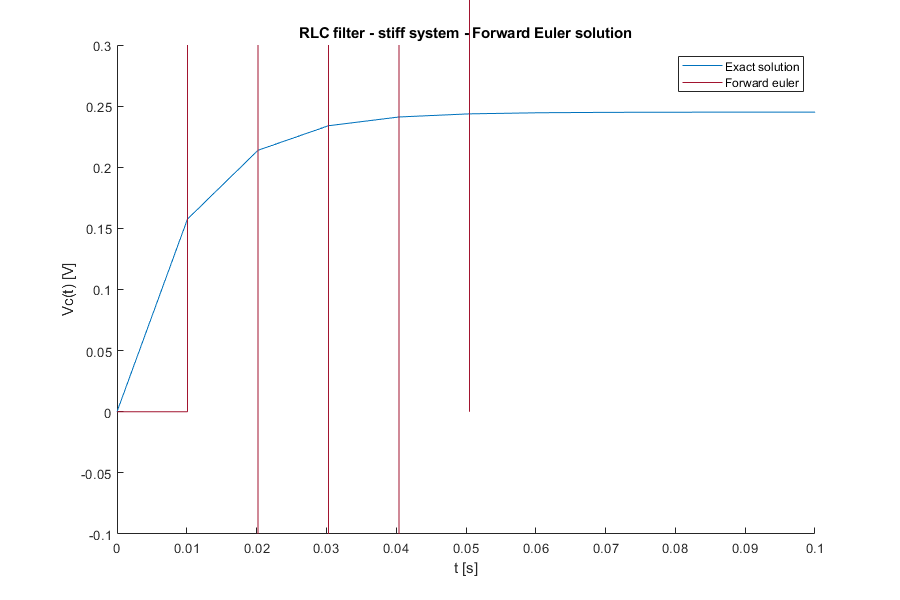
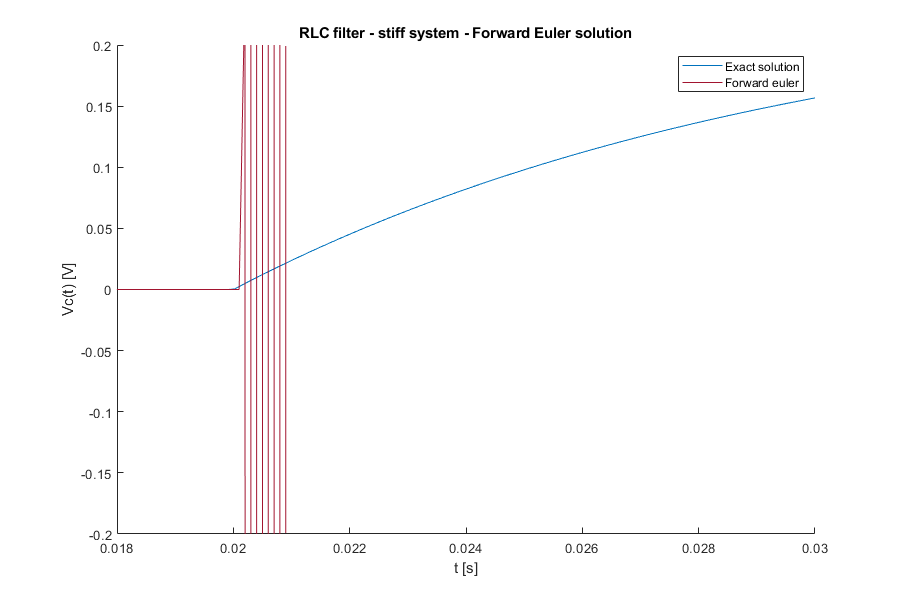
Corette immagini grafici, aggiunto grafico vin

diff --git a/presentazioneDI/RLC.m b/presentazioneDI/RLC.m
@@ -52,7 +52,6 @@ y_fe(:,1) = [0;0];
 for ii = 1:numel(t)-1
     y_fe(:,ii+1) = y_fe(:,ii) + h .* f(t(ii),y_fe(:,ii));
 end
-
 %% Eulero indietro
 
 y_be(:,1) = [0;0];
@@ -76,13 +75,13 @@ end
 
 y0 = [0;0];
 y_BDF3 = zeros(numel(y0),numel(t));
-
+tic
 for ii = 3:numel(t)-1
     BDF3 = @(x) (18/11).*y_BDF3 (:, ii) - (9/11).*y_BDF3 (:,ii-1) + ...
     (2/11).*y_BDF3 (:,ii-2)  + (6/11 ).* h.*f(t(ii+1),x) - x;
     y_BDF3 (:,ii+1) = fsolve(BDF3, y_BDF3 (:,ii),optimset('Display','off'));
 end
-
+toc
 %% ode15s
 
 [t_ode15s,y_ode15s] = ode15s(f,[tstart tend],[0; 0]);
@@ -107,9 +106,9 @@ xlabel('t [s]');
 %% BDF Plot
 figure('Position', [100 100 900 600]);
 hold on
-plot(t, Vi(t), 'color', '#7E2F8E');
+plot(t, Vi(t), 'color', 'black', 'LineWidth', 0.5);
 plot(t_ex,y_ex, 'marker', 'x', 'lineStyle', 'none', 'color', '#0072BD','MarkerIndices',1:25:length(t_ex));
-plot(t,y_BDF3(1,:), 'color', '#4DBEEE');
+plot(t,y_BDF3(1,:), 'color', '#A2142F');
 ylim([-0.1 0.3])
 xlim([0, 0.1]);
 title("RLC filter - stiff system");
@@ -133,14 +132,27 @@ xlabel('t [s]');
 %% FE Plot
 figure('Position', [100 100 900 600]);
 hold on
-%plot(t_ex,y_ex, 'marker', 'x', 'lineStyle', 'none', 'color', '#0072BD',
-%'MarkerIndices',1:25:length(t_ex)); %blue for non stiff
-plot(t_ex,y_ex, 'color', '#0072BD'); %blue
+plot(t_ex,y_ex, 'marker', 'x', 'lineStyle', 'none', 'color', '#0072BD', 'MarkerIndices',1:25:length(t_ex)); %blue for non stiff
+%plot(t_ex,y_ex, 'color', '#0072BD'); %blue
 plot(t,y_fe(1,:), 'color', '#A2142F'); %red
-ylim([-0.2 0.2])
-%xlim([0, 0.1]); for non stiff
-xlim([0.018, 0.03])
-title("RLC filter - stiff system - Forward Euler solution");
-legend('Exact solution','Forward euler');
+plot(t, Vi(t), 'color', 'black', 'LineWidth', 0.5);
+ylim([-0.1, 0.3]); % for non stiff
+%ylim([-0.2 0.2])
+xlim([0, 0.1]); %for non stiff
+%xlim([0.018, 0.03])
+title("RLC filter - non stiff system - Forward Euler solution");
+legend('Exact solution','Forward euler', 'Vin(t)');
 ylabel('Vc(t) [V]');
+xlabel('t [s]');
+
+%% Vin Plot
+
+figure('Position', [100 100 450 300]);
+hold on
+grid off
+plot(t, Vi(t), 'color', 'black', 'LineWidth', 2);
+ylim([-0.1 0.35])
+xlim([0, 0.1])
+title("Vin(t)");
+ylabel('Vin(t) [V]');
 xlabel('t [s]');
